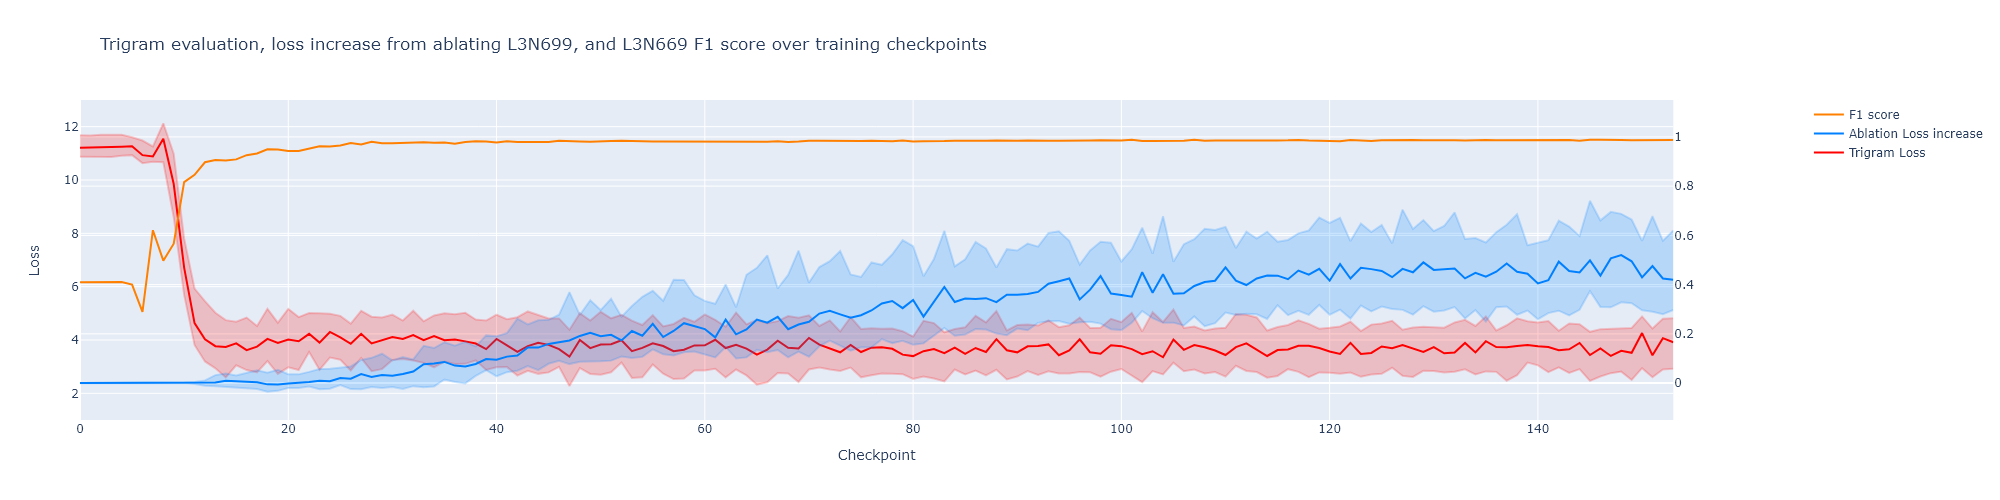
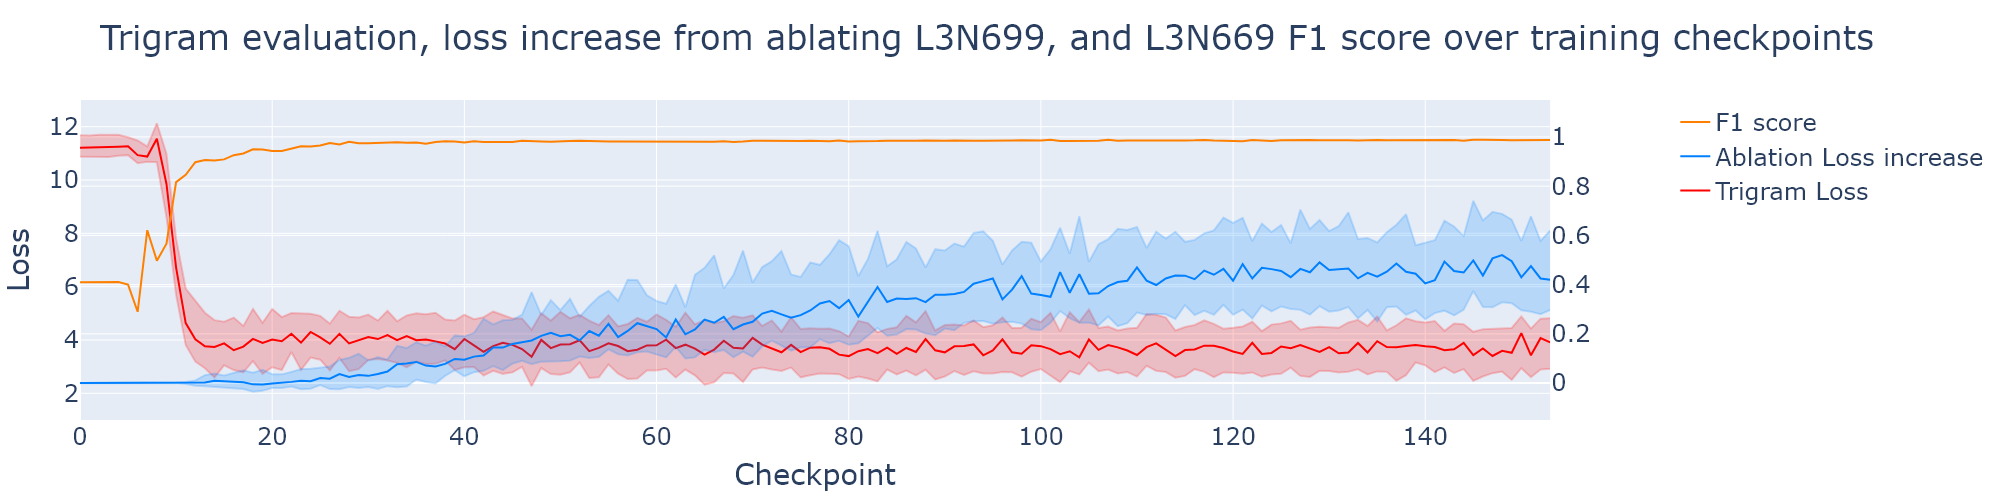
font size update

diff --git a/ngram_evaluation_viz.py b/ngram_evaluation_viz.py
@@ -85,7 +85,8 @@ def process_data(model_name: str, output_dir: Path, image_dir: Path) -> None:
         #yaxis=dict(type='log'),
         #yaxis2=dict(type='linear')
         yaxis=dict(range=[1, 13]),
-        yaxis2=dict(range=[-0.15, 1.15])
+        yaxis2=dict(range=[-0.15, 1.15]),
+        font=dict(size=24)
     )
 
     fig.write_image(image_dir.joinpath("figure_1.png"), width=2000)
